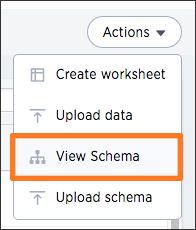
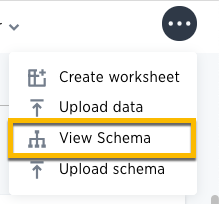
SCAL-34477, fixed How to view a data schema topic
(cherry picked from commit 2dbc07c178b36f18ee90afb7c6378310ff0a24a6)

Changed region(s): [[0.0, 0.0, 1.0, 1.0], [0.2449, 0.2941, 0.8571, 0.4118], [0.1224, 0.2941, 0.2449, 0.4412]]

diff --git a/_admin/loading/schema-viewer.md b/_admin/loading/schema-viewer.md
@@ -1,22 +1,24 @@
 ---
 title: [How to view a data schema]
-tags: [Modeling]
 keywords: schema viewer, relationships, keys, worksheet
-last_updated: tbd
+last_updated: 12/13/2018
+tags: [Modeling]
+toc: true
 summary: "Use the schema viewer to see tables and worksheets and their relationships. "
 sidebar: mydoc_sidebar
 permalink: /:collection/:path.html
 ---
-There is a schema viewer in ThoughtSpot which lets you see your database schema
-in the web browser. The Schema Viewer is interactive, so you can configure it to
-show just what you want to see.
+ThoughtSpot offers a schema viewer that lets you see your database schema in the
+web browser. The Schema Viewer is interactive, so you can configure it to show
+just what you want to see.
 
 You need **Admin** privileges to use the **Schema Viewer**.
 
 ## Bringing up the Schema Viewer
 
-You can access the Schema Viewer from the **DATA** screen by clicking
-**Actions**, and selecting **View Schema**.
+You can bring up the Schema Viewer from the **Data** screen. Click the ellipses icon
+(3 dots) ![R info icon]({{ site.baseurl }}/images/r-icon-more-options.png){: .inline},
+and select **View Schema**.
 
  ![]({{ site.baseurl }}/images/access_schema_viewer.png "Access the Schema Viewer")
 
